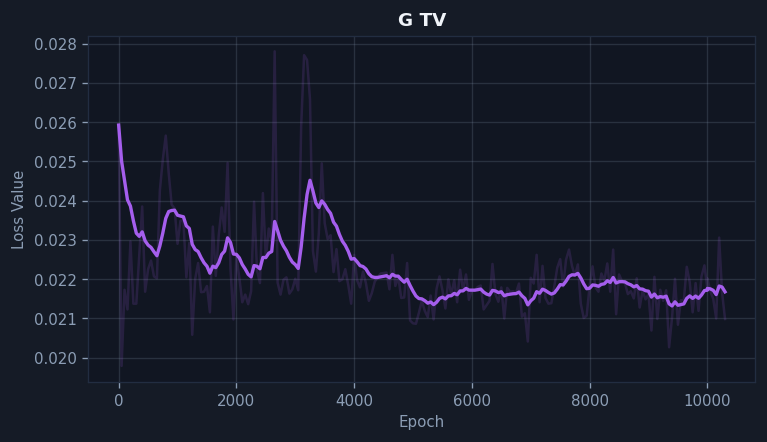
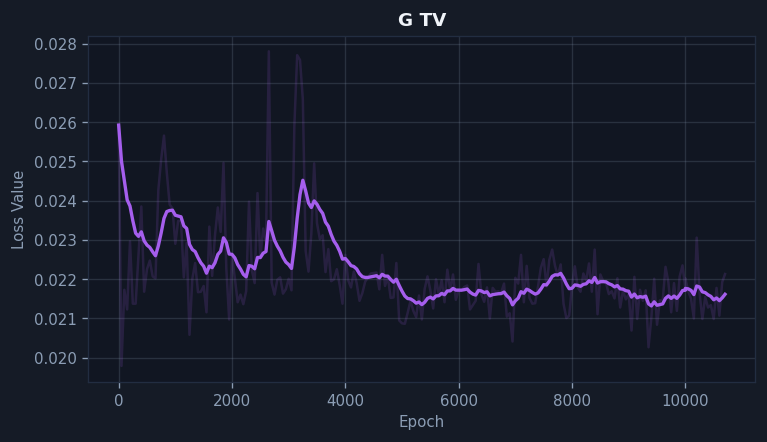
chore(report): update HTML dashboard and connectivity metrics

diff --git a/index.html b/index.html
@@ -1404,10 +1404,10 @@
                       
                       
                       
-                      <td style="text-align: center; font-family: monospace;">0.86</td>
+                      <td style="text-align: center; font-family: monospace;">1.18</td>
                       <td style="text-align: center; font-family: monospace;">96.66</td>
                       <td style="text-align: center;">
-                        <span style="font-family: monospace; font-weight: 600;">26.71</span>
+                        <span style="font-family: monospace; font-weight: 600;">26.79</span>
                         <span class="score-bar" style="width: 73px;"></span>
                       </td>
                     </tr>
@@ -1421,11 +1421,11 @@
                       
                       
                       
-                      <td style="text-align: center; font-family: monospace;">0.68</td>
+                      <td style="text-align: center; font-family: monospace;">1.01</td>
                       <td style="text-align: center; font-family: monospace;">103.88</td>
                       <td style="text-align: center;">
-                        <span style="font-family: monospace; font-weight: 600;">26.98</span>
-                        <span class="score-bar" style="width: 73px;"></span>
+                        <span style="font-family: monospace; font-weight: 600;">27.06</span>
+                        <span class="score-bar" style="width: 72px;"></span>
                       </td>
                     </tr>
                   
@@ -1438,10 +1438,10 @@
                       
                       
                       
-                      <td style="text-align: center; font-family: monospace;">2.82</td>
+                      <td style="text-align: center; font-family: monospace;">3.15</td>
                       <td style="text-align: center; font-family: monospace;">103.34</td>
                       <td style="text-align: center;">
-                        <span style="font-family: monospace; font-weight: 600;">27.80</span>
+                        <span style="font-family: monospace; font-weight: 600;">27.88</span>
                         <span class="score-bar" style="width: 72px;"></span>
                       </td>
                     </tr>
@@ -1455,10 +1455,10 @@
                       
                       
                       
-                      <td style="text-align: center; font-family: monospace;">0.36</td>
+                      <td style="text-align: center; font-family: monospace;">0.68</td>
                       <td style="text-align: center; font-family: monospace;">100.00</td>
                       <td style="text-align: center;">
-                        <span style="font-family: monospace; font-weight: 600;">28.22</span>
+                        <span style="font-family: monospace; font-weight: 600;">28.30</span>
                         <span class="score-bar" style="width: 71px;"></span>
                       </td>
                     </tr>
@@ -1495,7 +1495,7 @@
                         
                         
                           <td style="text-align: center;"><span style="font-family: monospace; color: #fbbf24;">0.1160</span></td>
-                          <td style="text-align: center;"><span style="font-family: monospace; color: #f87171;">109.0495</span></td>
+                          <td style="text-align: center;"><span style="font-family: monospace; color: #f87171;">89.5511</span></td>
                         
                       
                       
@@ -1508,7 +1508,7 @@
                         
                         
                           <td style="text-align: center;"><span style="font-family: monospace; color: #f87171;">0.2788</span></td>
-                          <td style="text-align: center;"><span style="font-family: monospace; color: #f87171;">410.1014</span></td>
+                          <td style="text-align: center;"><span style="font-family: monospace; color: #f87171;">404.3994</span></td>
                         
                       
                       
@@ -1521,7 +1521,7 @@
                         
                         
                           <td style="text-align: center;"><span style="font-family: monospace; color: #fbbf24;">0.0633</span></td>
-                          <td style="text-align: center;"><span style="font-family: monospace; color: #f87171;">114.7229</span></td>
+                          <td style="text-align: center;"><span style="font-family: monospace; color: #f87171;">110.5153</span></td>
                         
                       
                       
@@ -1534,7 +1534,7 @@
                         
                         
                           <td style="text-align: center;"><span style="font-family: monospace; color: #f87171;">0.4802</span></td>
-                          <td style="text-align: center;"><span style="font-family: monospace; color: #f87171;">543.5077</span></td>
+                          <td style="text-align: center;"><span style="font-family: monospace; color: #f87171;">538.1114</span></td>
                         
                       
                       
@@ -1566,9 +1566,9 @@
                   
                     <tr style="background-color: rgba(96, 165, 250, 0.05);">
                       <td style="color: #60a5fa; font-weight: 600;">Real Validation Data</td>
-                      <td style="text-align: center; font-family: monospace;">14.0</td>
-                      <td style="text-align: center; font-family: monospace;">15.4%</td>
-                      <td style="text-align: center; font-family: monospace;">182.4</td>
+                      <td style="text-align: center; font-family: monospace;">13.9</td>
+                      <td style="text-align: center; font-family: monospace;">15.1%</td>
+                      <td style="text-align: center; font-family: monospace;">672.6</td>
                     </tr>
                   
                     <tr>
@@ -5702,7 +5702,63 @@
                   <div class="carousel-viewport" id="carousel-seismic_only">
                     
                       <div class="carousel-slide milestone-print" style="display: block;">
-                        <div style="margin-bottom: 10px; font-weight: 600; color: var(--accent-hover); font-size: 0.95rem;">📅 Milestone: <span class="epoch-number-label">Epoch 10200 (Final)</span></div>
+                        <div style="margin-bottom: 10px; font-weight: 600; color: var(--accent-hover); font-size: 0.95rem;">📅 Milestone: <span class="epoch-number-label">Epoch 10600 (Final)</span></div>
+                        <div class="image-grid-5">
+                          
+                            
+                              <div class="image-card">
+                                <div class="image-title">Facies</div>
+                                <img src="outputs/experiments/seismic_only/training_visualizations/Scale_4/Facies_epoch_10600.png" alt="Facies">
+                              </div>
+                            
+                          
+                            
+                              <div class="image-card">
+                                <div class="image-title">Ip (<i>I<sub>p</sub></i>)</div>
+                                <img src="outputs/experiments/seismic_only/training_visualizations/Scale_4/Ip_epoch_10600.png" alt="Ip (<i>I<sub>p</sub></i>)">
+                              </div>
+                            
+                          
+                            
+                              <div class="image-card">
+                                <div class="image-title">Seismic</div>
+                                <img src="outputs/experiments/seismic_only/training_visualizations/Scale_4/Seismic_epoch_10600.png" alt="Seismic">
+                              </div>
+                            
+                          
+                        </div>
+                      </div>
+                    
+                      <div class="carousel-slide" style="display: none;">
+                        <div style="margin-bottom: 10px; font-weight: 600; color: var(--accent-hover); font-size: 0.95rem;">📅 Milestone: <span class="epoch-number-label">Epoch 10400</span></div>
+                        <div class="image-grid-5">
+                          
+                            
+                              <div class="image-card">
+                                <div class="image-title">Facies</div>
+                                <img src="outputs/experiments/seismic_only/training_visualizations/Scale_4/Facies_epoch_10400.png" alt="Facies">
+                              </div>
+                            
+                          
+                            
+                              <div class="image-card">
+                                <div class="image-title">Ip (<i>I<sub>p</sub></i>)</div>
+                                <img src="outputs/experiments/seismic_only/training_visualizations/Scale_4/Ip_epoch_10400.png" alt="Ip (<i>I<sub>p</sub></i>)">
+                              </div>
+                            
+                          
+                            
+                              <div class="image-card">
+                                <div class="image-title">Seismic</div>
+                                <img src="outputs/experiments/seismic_only/training_visualizations/Scale_4/Seismic_epoch_10400.png" alt="Seismic">
+                              </div>
+                            
+                          
+                        </div>
+                      </div>
+                    
+                      <div class="carousel-slide" style="display: none;">
+                        <div style="margin-bottom: 10px; font-weight: 600; color: var(--accent-hover); font-size: 0.95rem;">📅 Milestone: <span class="epoch-number-label">Epoch 10200</span></div>
                         <div class="image-grid-5">
                           
                             
@@ -7191,8 +7247,8 @@
                   
                   
                     <div class="carousel-indicator-bar" style="align-items: center; gap: 10px; width: 100%; max-width: 400px; margin: 12px auto;">
-                      <input type="range" id="scrubber-seismic_only" min="0" max="52" value="52" oninput="jumpToSlide('seismic_only', 52 - parseInt(this.value))" style="flex-grow: 1; accent-color: var(--accent); cursor: pointer;">
-                      <span id="scrubber-label-seismic_only" style="font-size: 0.85rem; color: var(--text-muted); font-family: monospace;">Epoch 10200 (Final) (53/53)</span>
+                      <input type="range" id="scrubber-seismic_only" min="0" max="54" value="54" oninput="jumpToSlide('seismic_only', 54 - parseInt(this.value))" style="flex-grow: 1; accent-color: var(--accent); cursor: pointer;">
+                      <span id="scrubber-label-seismic_only" style="font-size: 0.85rem; color: var(--text-muted); font-family: monospace;">Epoch 10600 (Final) (55/55)</span>
                     </div>
                   
                 </div>
@@ -9506,7 +9562,7 @@
                   
                     <tr>
                       <td style="font-weight: 500;">Seismic Only</td>
-                      <td style="text-align: center; font-family: monospace;">6h 10m</td>
+                      <td style="text-align: center; font-family: monospace;">6h 24m</td>
                       <td style="text-align: center; font-family: monospace;">33.6 MB</td>
                     </tr>
                   
